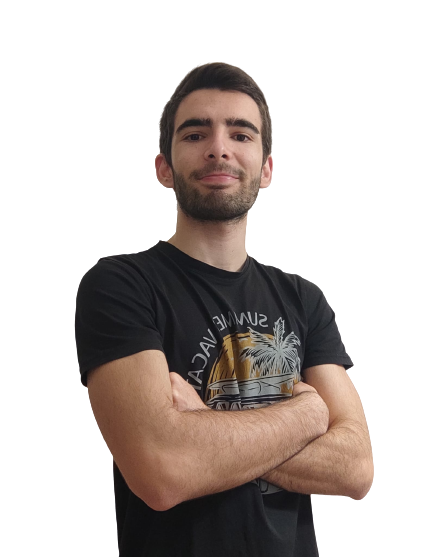
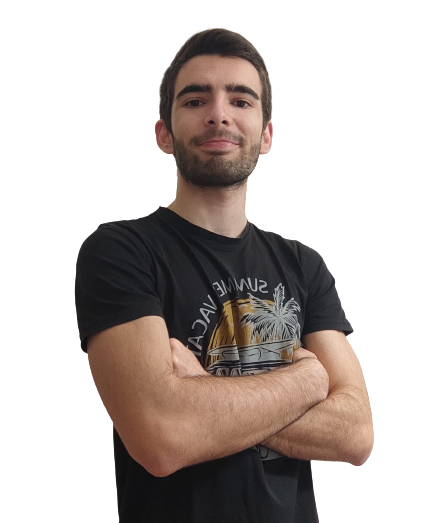
members added

diff --git a/html/body.html b/html/body.html
@@ -119,7 +119,7 @@
                 </div>
 
                 <div class="photo-container">
-                    <img src="../imgs/generic.jpg" class="photo">
+                    <img src="../imgs/members/body/maria_joao_pinto.png" class="photo">
                 </div>
 
                 <div class="description">
